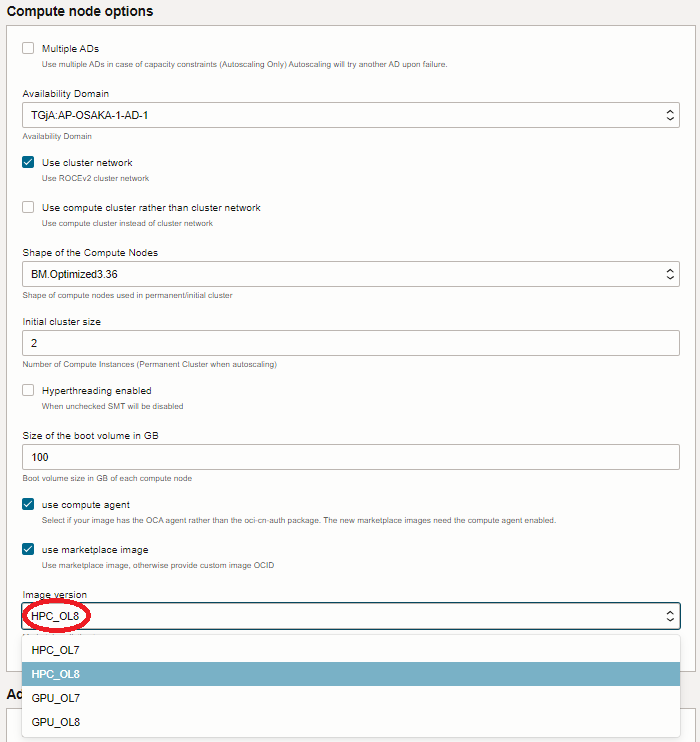
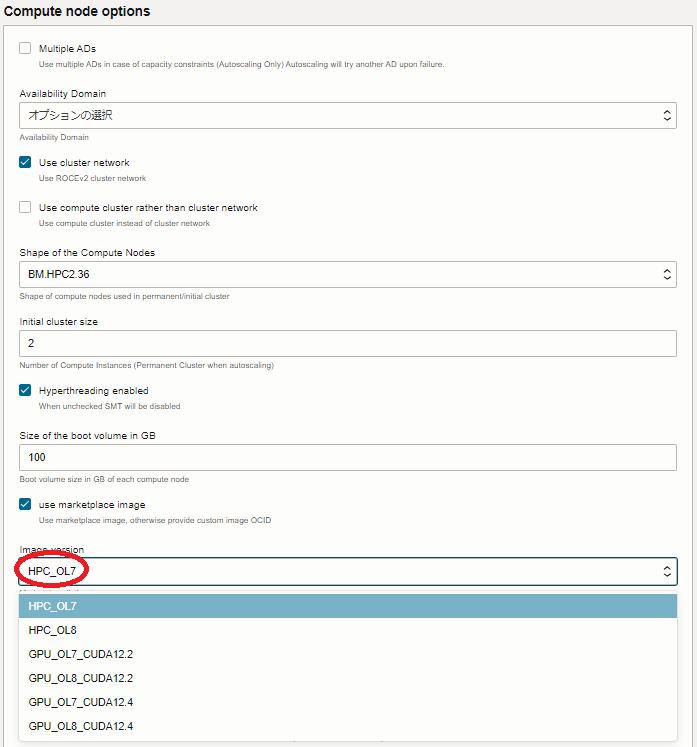
チュートリアル：OCI HPCテクニカルTips集 カテゴリ：OCI HPCポータル 更新内容："クラスタネットワーキングイメージの選び方"のイメージ一覧を最新に更新、これらに伴う修正、及び誤記訂正・軽微な修正

diff --git a/tutorials/_hpc/tech-knowhow/howto-create-cnenabled-osimage.md b/tutorials/_hpc/tech-knowhow/howto-create-cnenabled-osimage.md
@@ -25,12 +25,12 @@ header:
 2. **クラスタ・ネットワーク** のデプロイに伴ってデプロイされている
 3. **クラスタ・ネットワーク** 接続に必要な以下ソフトウェアがインストールされている
     1. Mellanox OFED
-    2. WPAサプリメント（※1）
+    2. WPAサプリカント（※1）
     3. 802.1X認証関連ユーティリティソフトウェア
     4. **クラスタ・ネットワーク** 設定ユーティリティソフトウェア
 
-    ※1）**クラスタ・ネットワーク** は、インスタンスが接続する際802.1X認証を要求しますが、この処理を行うクライアントソフトウェアがWPAサプリメントです。802.1X認証の仕組みは、 **[ここ](https://www.infraexpert.com/study/wireless14.html)** のサイトが参考になります。  
-    
+    ※1）**クラスタ・ネットワーク** は、インスタンスが接続する際802.1X認証を要求しますが、この処理を行うクライアントソフトウェアがWPAサプリカントです。802.1X認証の仕組みは、 **[ここ](https://www.infraexpert.com/study/wireless14.html)** のサイトが参考になります。
+
 [接続処理]
 
 1. **クラスタ・ネットワーク** との802.1X認証（**接続条件 3-3.** が実施）
@@ -109,7 +109,7 @@ header:
 - **カスタム・イメージ** 取得用計算/GPUノードへのログインと事前準備
 - Mellanox OFEDダウンロード・インストール
 - WPAサプリカントインストール・OCAプラグイン有効化（OSが **Ubuntu** 20.04の場合）
-- WPAサプリメント・oci-cn-authインストール（OSが **Ubuntu** 20.04以外の場合）
+- WPAサプリカント・oci-cn-authインストール（OSが **Ubuntu** 20.04以外の場合）
 
 なお本章の作業は、最終的にMPIの稼働確認を行う必要から、2台の計算/GPUノードの何れにも実施します。
 
@@ -177,9 +177,9 @@ $ cd /mnt/iso; sudo ./mlnxofedinstall --without-fw-update -q
 $ sudo shutdown -r now
 ```
 
-### 2-1-3.  WPAサプリメント・oci-cn-authインストール
+### 2-1-3.  WPAサプリカント・oci-cn-authインストール
 
-以下コマンドを計算ノードのrockyユーザで実行し、WPAサプリメントとoci-cn-authをインストールします。
+以下コマンドを計算ノードのrockyユーザで実行し、WPAサプリカントとoci-cn-authをインストールします。
 
 ```sh
 $ sudo dnf install -y wpa_supplicant ruby rpm-build python3-psutil python3-pyOpenSSL git

diff --git a/tutorials/_hpc/tech-knowhow/howto-connect-clusternetwork.md b/tutorials/_hpc/tech-knowhow/howto-connect-clusternetwork.md
@@ -30,14 +30,16 @@ table, th, td {
 2. **クラスタ・ネットワーク** のデプロイに伴ってデプロイされている
 3. **クラスタ・ネットワーク** 接続に必要な以下ソフトウェアがインストールされている
     1. Mellanox OFED
-    2. wpa_supplicant
+    2. WPAサプリカント（※1）
     3. 802.1X認証関連ユーティリティソフトウェア
     4. **クラスタ・ネットワーク** 設定ユーティリティソフトウェア
+
+    ※1）**クラスタ・ネットワーク** は、インスタンスが接続する際802.1X認証を要求しますが、この処理を行うクライアントソフトウェアがWPAサプリカントです。802.1X認証の仕組みは、 **[ここ](https://www.infraexpert.com/study/wireless14.html)** のサイトが参考になります。
 
 [接続処理]
 
 1. **クラスタ・ネットワーク** との802.1X認証（**接続条件 3-3.** が実施）
-2. **クラスタ・ネットワーク** 接続用ネットワークインターフェースへのIPアドレス付与（**接続条件 3-4.** が実施）
+2. **クラスタ・ネットワーク** 接続用ネットワークインターフェース作成（**接続条件 3-4.** が実施）
 
 ここで **接続条件 3.** は、全てのソフトウェアを予めインストールした **[クラスタネットワーキングイメージ](/ocitutorials/hpc/#5-13-クラスタネットワーキングイメージ)** が用意されており、これを利用することでそのインストールを省略することが可能です。  
 この **クラスタ・ネットワーキングイメージ** は、 **接続条件 3-3.** と **接続条件 3-4.** のユーティリティソフトウェアの提供方法について、 **[Oracle Cloud Agent](https://docs.oracle.com/ja-jp/iaas/Content/Compute/Tasks/manage-plugins.htm)** （以降 **OCA** と呼称）プラグインを使用するイメージと個別RPMとしてインストールされているイメージが存在し、これらのユーティリティソフトウェアが実施する **接続処理 1.** と **接続処理 2.** の実行方法が異なります。  
